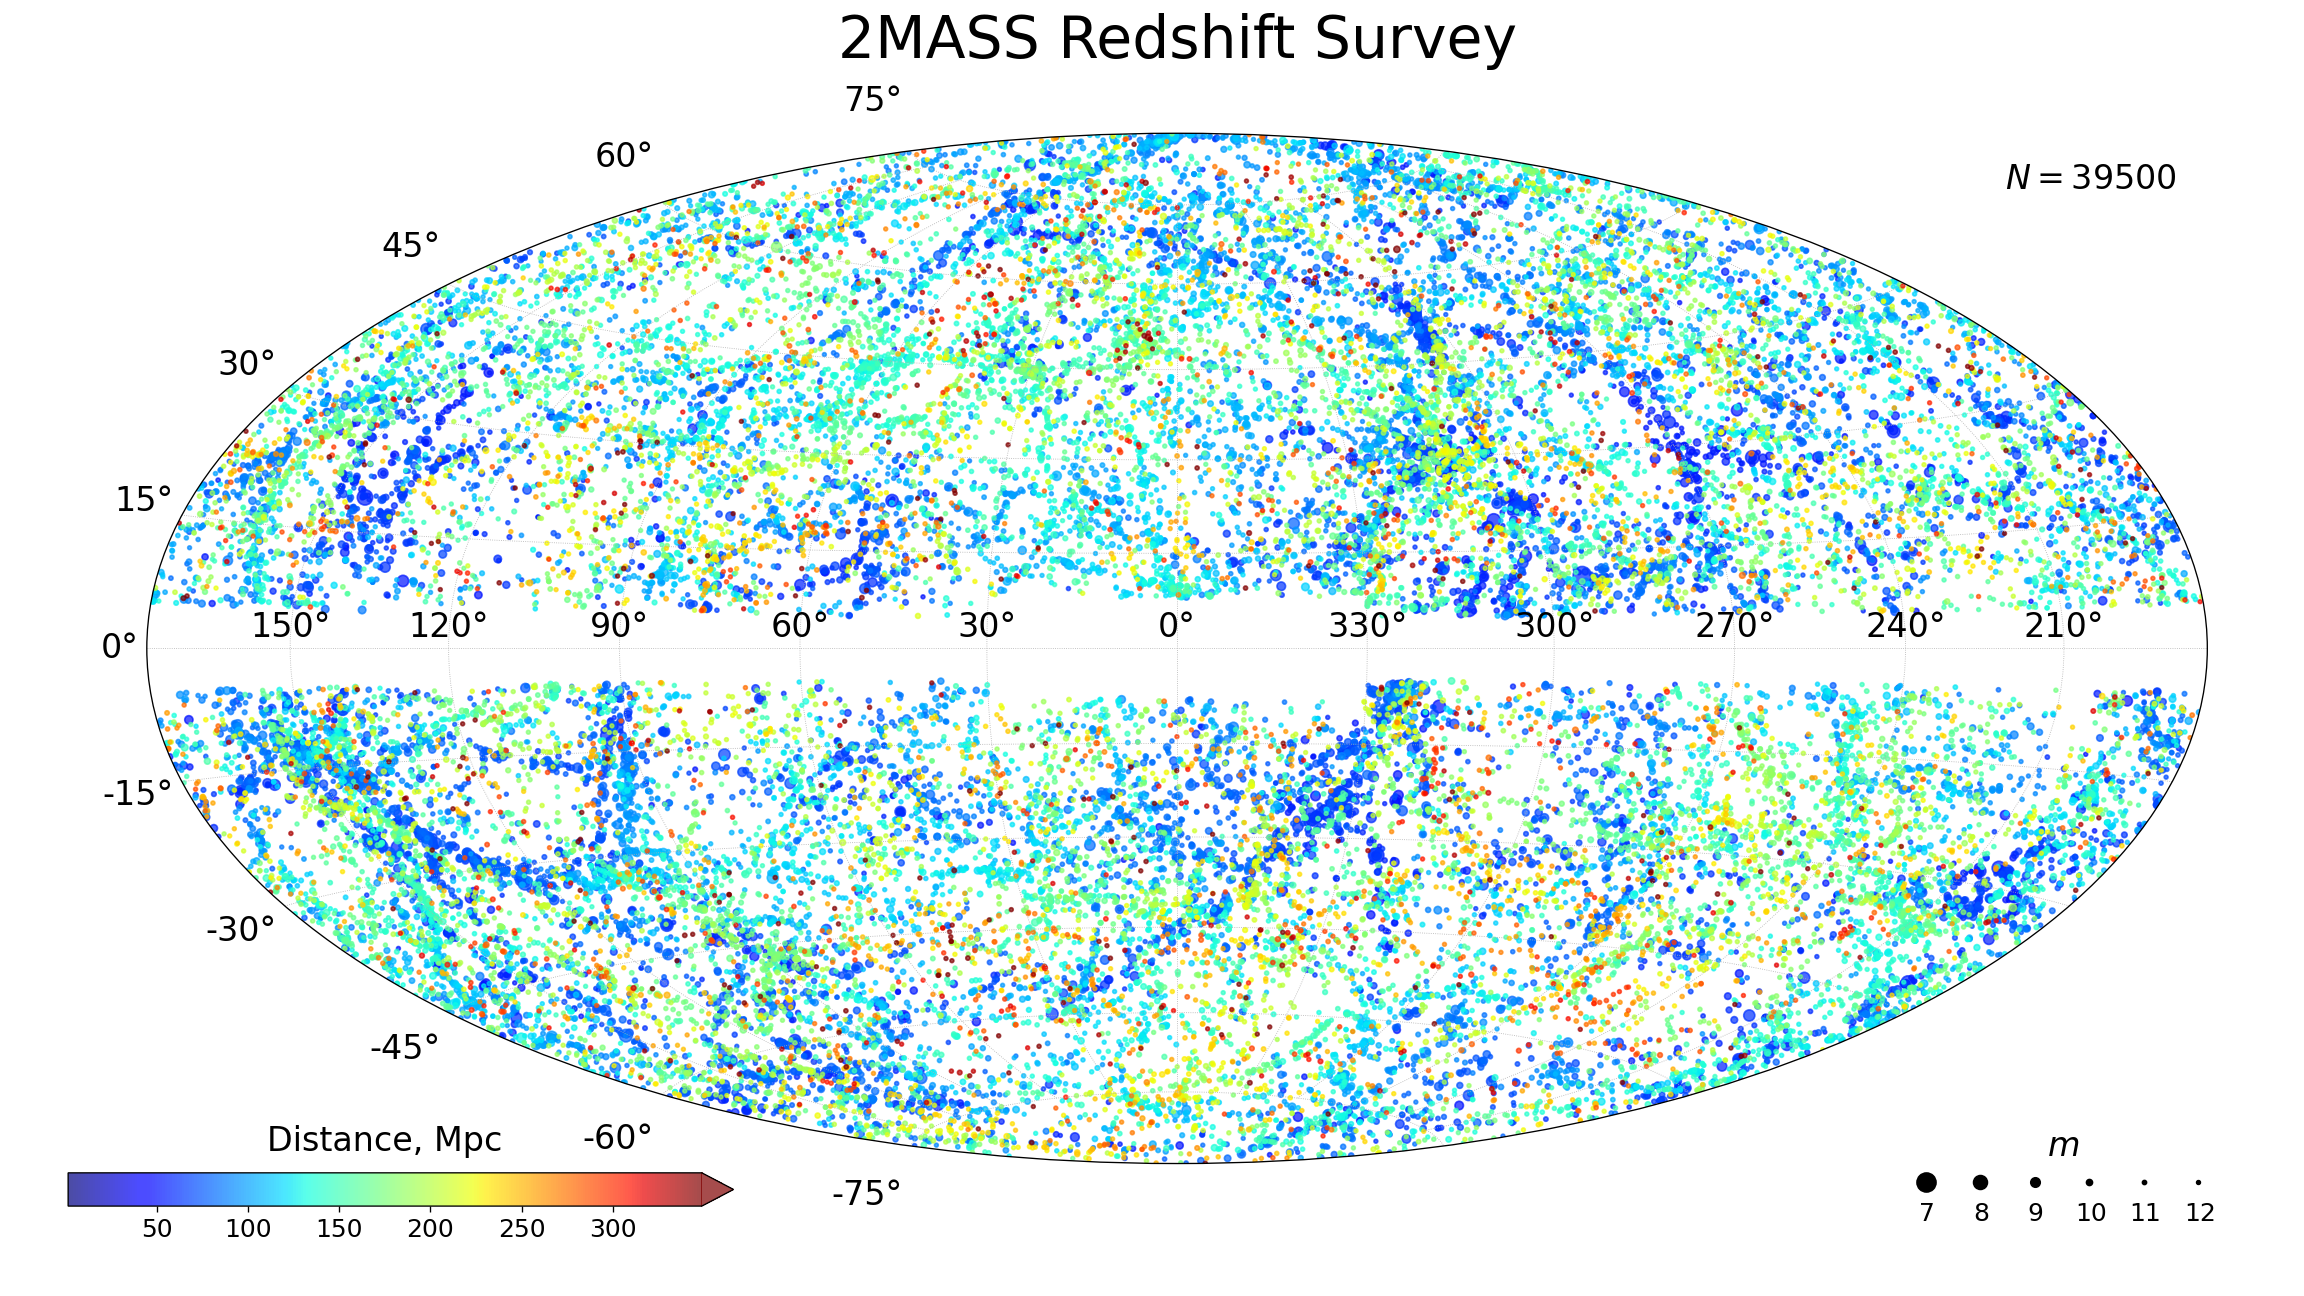
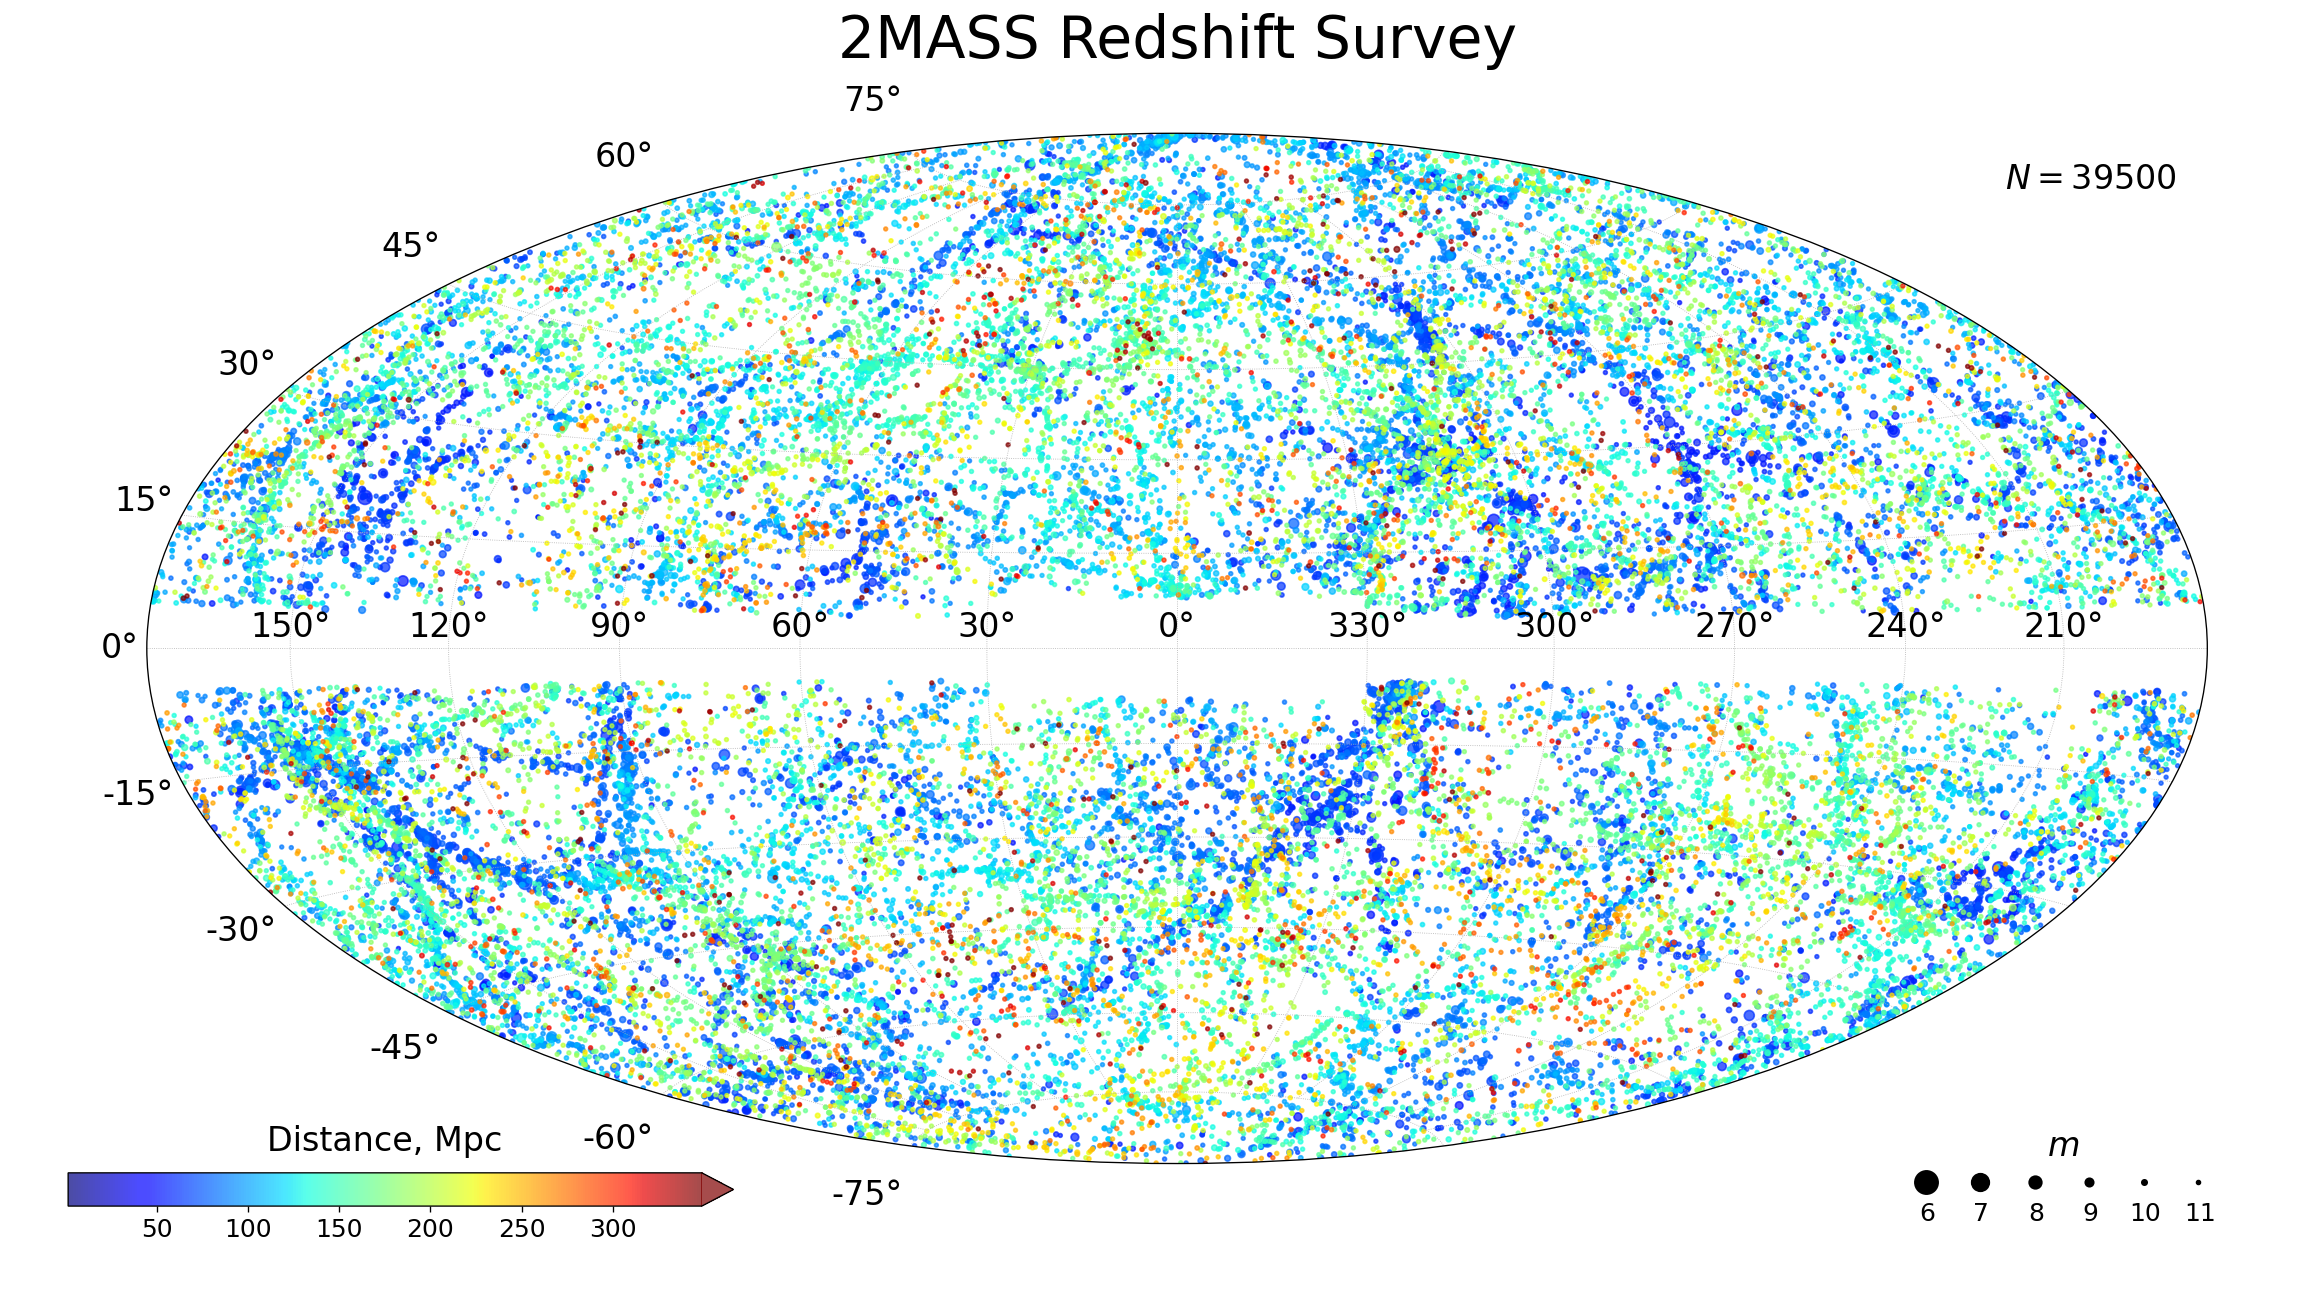
after checkpoint

diff --git a/neutrino.py b/neutrino.py
@@ -8,14 +8,15 @@ import matplotlib.pyplot as plt
 import catalogs
 import angles
 
-# TODO презентацию с описанием работы и итоговыми картинками
+# TODO презентацию со всеми картинками, несколько на слайд
+# TODO формулы з.в. и нейтринного потока
+# TODO рассказать при показе энергетического распределения: диапазон, параметры гауссианы, одни и те же бины
+# TODO 2mrs не нужен
 
-# TODO делать ли отсечки на основании гистограмм?
-# TODO как делать умный выбор галактик в гауссе?
-# TODO еще графики?
+# TODO normal_pdf_logx_graph сложить для всех галактик в каталоге
 
 # constants
-EMin = 30 * 10 ** 3
+EMin = 5 * 10 ** 3
 EMax = 30 * 10 ** 6
 EMean = 1 * 10 ** 6
 
@@ -39,8 +40,8 @@ def allsky(catalog):
             'vmax': 349,
             'extend': 'max',
             'xlabel': 'Distance, Mpc',
-            'minMag': 7,
-            'maxMag': 12,
+            'minMag': 6,
+            'maxMag': 11,
             'step': 1,
             'offset_1': 0.13,
             'offset_2': 0.27
@@ -52,8 +53,8 @@ def allsky(catalog):
             'vmax': 349,
             'extend': 'neither',
             'xlabel': 'Distance, Mpc',
-            'minMag': 7,
-            'maxMag': 12,
+            'minMag': 6,
+            'maxMag': 11,
             'step': 1,
             'offset_1': 0.13,
             'offset_2': 0.27
@@ -205,13 +206,13 @@ def normal_pdf_logx_hist(n_particles, z=None):
     return hist
 
 
-def normal_pdf_logx_graph(n_particles):
+def normal_pdf_logx_graph(n_particles, z=None):
     from scipy.stats import norm
 
     fig = plt.figure(figsize=(19.2, 10.8))
     ax = fig.add_subplot(111)
 
-    hist = normal_pdf_logx_hist(n_particles)
+    hist = normal_pdf_logx_hist(n_particles, z)
     ax.stairs(hist, binsEdges, fill=False, color='tab:red')
 
     x = np.linspace(np.log10(EMin), np.log10(EMax), 10 ** 4)
@@ -383,6 +384,8 @@ def gauss_graph(catalog):
 
 
 def diff():
+    # TODO сделать более явным (покрупнее шрифт)
+
     d1 = pd.read_csv('datasets/2mrsG.csv')
     d1 = d1.loc[(d1['Vgp'] > 0) & (d1['K_t'] > 0)]
 
@@ -420,6 +423,8 @@ def diff():
 
 
 def k_s_vs_d_l():
+    # TODO сделать его для Btot
+
     data = pd.read_csv('datasets/cf2.csv')
 
     data = data.loc[(data['Dist'] > 0) & (data['Ks'] > 0)]
@@ -450,6 +455,3 @@ def k_s_vs_d_l():
     fig.savefig('other graphs/kSVsDl.png', dpi=120)
 
     plt.show()
-
-
-allsky('milliquas')
